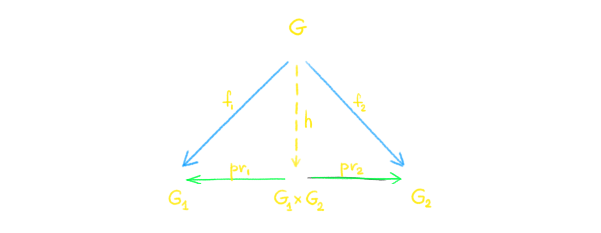
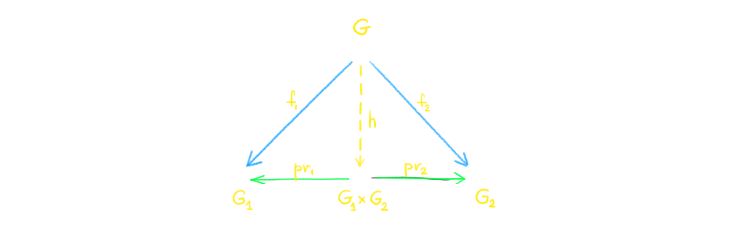
Add a bunch of pictures

diff --git a/AlgebraicTopology/LectureBonus1.html b/AlgebraicTopology/LectureBonus1.html
@@ -233,8 +233,8 @@
     f_2 = h \circ i_2. \\
     \end{array}
     \]
-    Иными словами, следующая диаграмма коммутативна:
-    <img src="pictures/diagramCoproduct.png" alt="Диаграмма">
+    На языке диаграмм это выглядит так:
+    <img src="pictures/universalPropertyCoproduct.png" alt="Диаграмма">
 </article>
 <article class="exercise">
     Докажите, что копроизведение единственно, с точностью до изоморфизма.
@@ -262,7 +262,7 @@
         \]
 
         Элементы этой группы имеют явный вид &mdash; это слова из чередующихся
-        элементов из \(G_1\) и \(G_2\), т.е. элементы вида \["x_1x_2...x_n",\]
+        элементов из \(G_1\) и \(G_2\), т.е. элементы вида \['x_1x_2...x_n\ ',\]
         где \(x_i\) принадлежит либо \(G_1\), либо \(G_2\). При этом мы рассматриваем такие слова с точностью до редукции,
         которая производится следующим образом:
         если какой-то \(x_k\) является нейтральным элементом (любой из групп), то его мы его выбрасываем из слова; если
@@ -273,8 +273,8 @@
         Тогда легко определить гомоморфизмы \(i_1 : G_1 \to G_1*G_2\) и \(i_2 : G_2 \to G_1*G_2\):
         \[
         \begin{array}{l}
-        i_1(g_1) = \ "g_1", g_1 \in G_1 \\
-        i_2(g_2) = \ "g_2". g_2 \in G_2 \\
+        i_1(g_1) = \ 'g_1\ ', g_1 \in G_1 \\
+        i_2(g_2) = \ 'g_2\ ', g_2 \in G_2 \\
         \end{array}
         \]
 
@@ -293,12 +293,12 @@
         \]
         По определению наших гомоморфизмов \(i_1, i_2\), это означает, что наш \(h\) уже однозначно определён для
         однобуквенных слов: если \(g_1 \in G_1\), \(g_2 \in G_2\), то
-        \[ p("g_1") = p(i_1(g_1)) = f_1(g_1), \]
-        \[ p("g_2") = p(i_2(g_2)) = f_2(g_2). \]
+        \[ p('g_1\ ') = p(i_1(g_1)) = f_1(g_1), \]
+        \[ p('g_2\ ') = p(i_2(g_2)) = f_2(g_2). \]
         Но это значит, что \(h\) однозначно определён и для любого слова, т.к. любой элемент из \(G_1*G_2\) является
         произведением однобуквенных слов и
         <div class="long_formula">
-            \[h("x_1...x_n") = h("x_1")\cdot...\cdot h("x_n").\]
+            \[h('x_1...x_n\,') = h('x_1\,')\cdot...\cdot h('x_n\,').\]
         </div>
 
         Очевидно проверяется, что это действительно гомоморфизм.
@@ -324,20 +324,21 @@
     \[= ababba = abaaa = aba.\]
     Вот граф Кэли этой группы.
 </p>
-<img src="pictures/Z2starZ2.png" alt="Z2*Z2">
+<img src="pictures/cayleyZ2starZ2.png" alt="Z2*Z2">
 <p>
-    Группа \(\mZ/2 * \mZ/2\) изоморфна \(\la a, b | a^2, b^3 \ra\). Примером перемножения элементов будет
+    Группа \(\mZ/2 * \mZ/3\) изоморфна \(\la a, b | a^2, b^3 \ra\). Примером перемножения элементов будет
     \[ab^2aba\cdot ab^2a = ab^2abaab^2a =\]
     \[= ab^2abb^2a = ab^2aaa = ab^2a.\]
     Граф Кэли этой группы выглядит более красиво:
 </p>
-<img src="pictures/Z2starZ3.png" alt="Z2*Z3">
+<img src="pictures/cayleyZ2starZ3.png" alt="Z2*Z3">
 <p>
-    И ещё чуть-чуть красивых картинок:
+    И ещё чуть-чуть красивых картинок для групп \(\mZ/3 * \mZ/3\) и \((\mZ/2)^2 * \mZ/2\),
+    где \((\mZ/2)^2\) обозначает просто \(\mZ/2 \times \mZ/2\):
 </p>
 
-<img src="pictures/Z2starZ3.png" alt="Z3*Z3">
-<img src="pictures/Z2xZ2starZ2.png" alt="Z2xZ2*Z2">
+<img src="pictures/cayleyZ3starZ3.png" alt="Z3*Z3">
+<img src="pictures/cayleyZ22starZ2.png" alt="Z2xZ2*Z2">
 
 <p>
     Вообще говоря произведения и копроизведения можно определить для любого количества групп, даже бесконечного.
